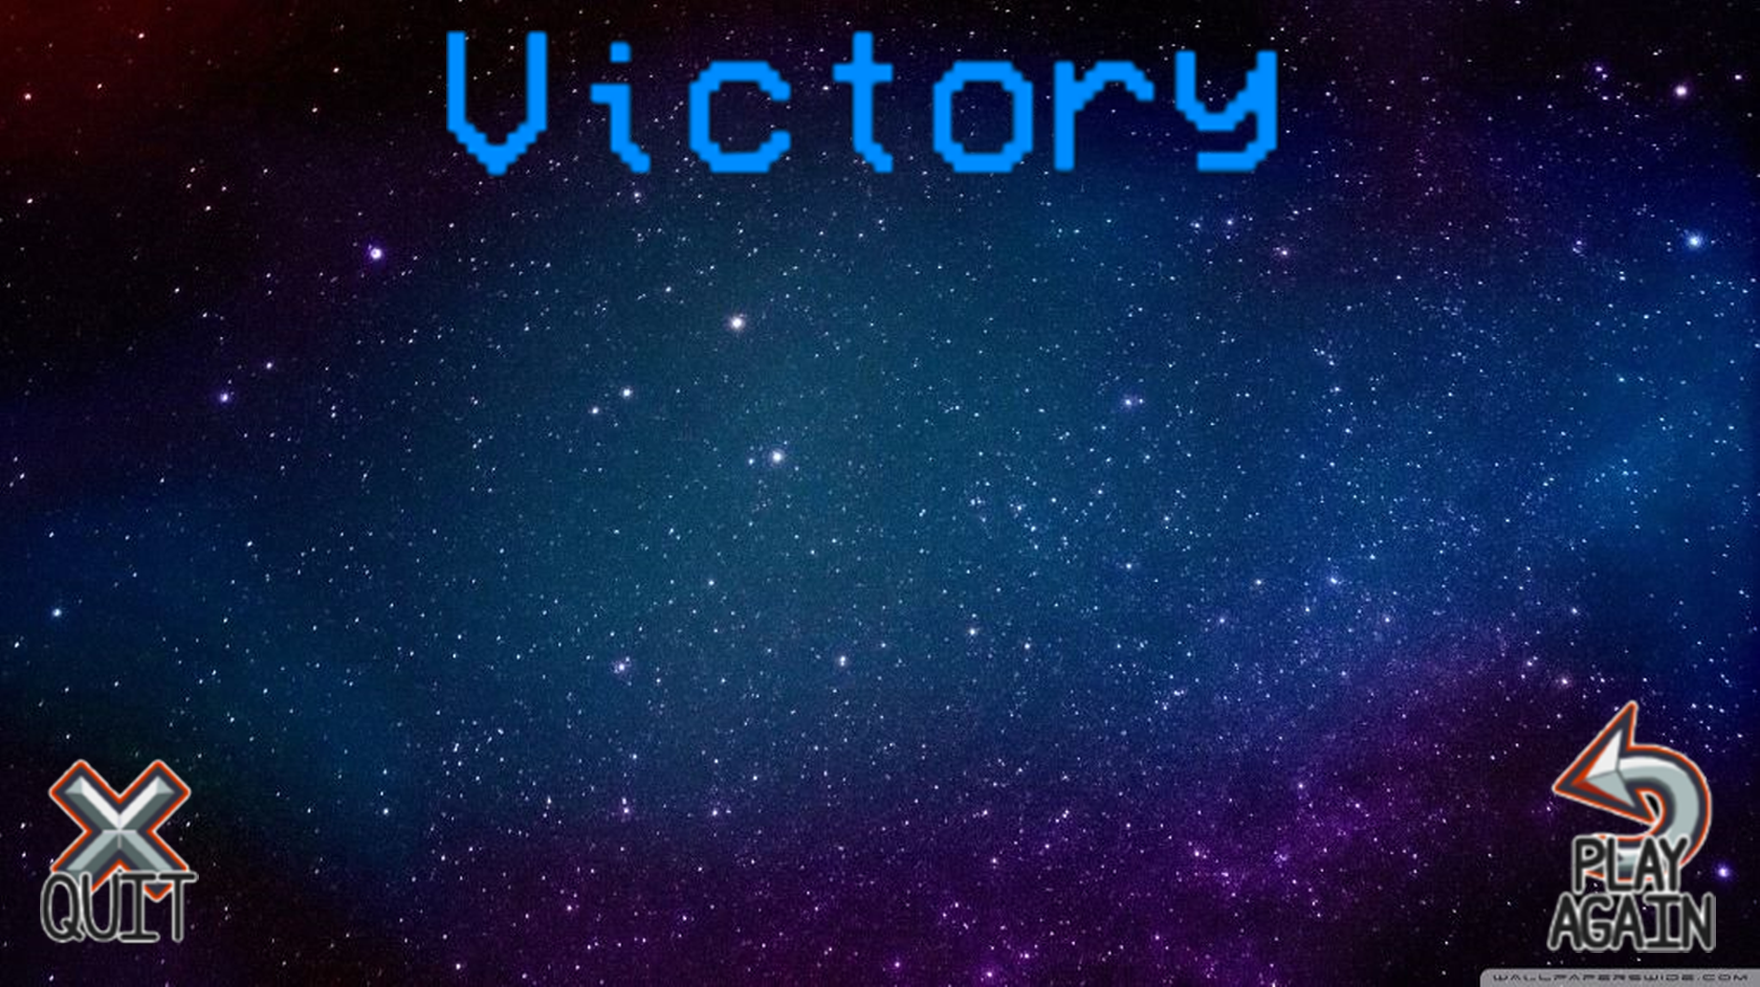
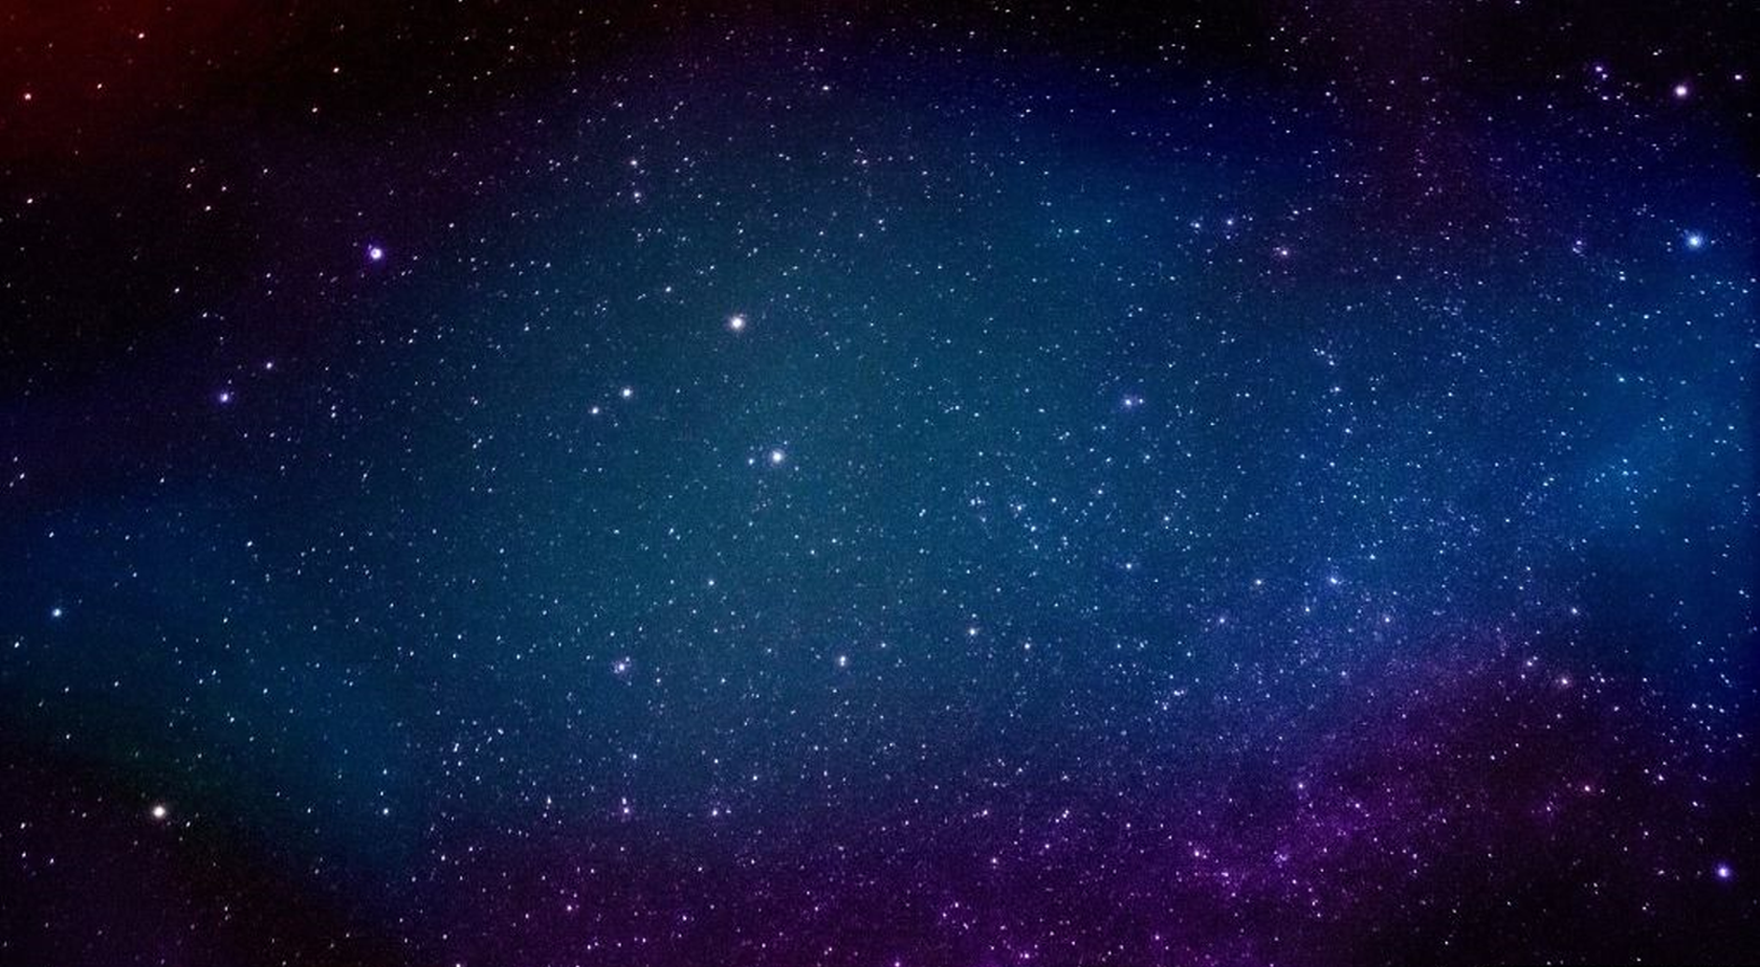
victory_state 추가

diff --git a/2DProject/Johnburr/victory_state.PY b/2DProject/Johnburr/victory_state.PY
@@ -1,0 +1,86 @@
+import gfw
+from pico2d import *
+import main_state
+
+RES_DIR = './res'
+def enter():
+    global image, spaceship_image,engine_image, time, cw , ch,  scroll, speed,victory_image,quit_image,again_image
+    image = load_image(RES_DIR + '/victory_state.png')
+    spaceship_image = load_image(RES_DIR + '/spaceship/7.png')
+    engine_image = load_image(RES_DIR + '/engine.png')
+    victory_image = load_image(RES_DIR + '/victory.png')
+    quit_image = load_image(RES_DIR + '/quit_button.png')
+    again_image = load_image(RES_DIR + '/again_button.png')
+    time = 0
+    cw , ch = get_canvas_width(), get_canvas_height()
+    scroll = 0
+    speed = 500
+
+
+def update():
+    global fidx, time, scroll
+    time += gfw.delta_time
+    fidx = int(time * 30 + 0.5) % 4
+    scroll += speed * gfw.delta_time
+
+
+
+def draw():
+    sx = fidx * 53
+    #image.draw(get_canvas_width() // 2,get_canvas_height() // 2,get_canvas_width() ,get_canvas_height())
+
+
+    left, bottom = 0, 0
+    page = image.h * cw // image.w
+    curr = int(-scroll) % page
+    if curr > 0:
+        sh = int(1 + image.w * curr / cw)
+        sb = image.h - sh
+        src = 0, sb, image.w, sh
+        dh = int(sh * cw / image.w)
+        dst = 0, curr - dh, cw, dh
+        image.clip_draw_to_origin(*src, *dst)
+    dst_high = round(image.h * cw / image.w)
+    while curr + dst_high < ch:
+        dst = 0, curr, cw, dst_high
+        image.draw_to_origin(*dst)
+        curr += dst_high
+    if curr < ch:
+        dh = ch - curr
+        sh = int(1 + image.w * dh / cw)
+        src = 0, 0, image.w, sh
+        dh = int(sh * cw / image.w)
+        dst = 0, curr, cw, dh
+        image.clip_draw_to_origin(*src, *dst)
+
+    victory_image.draw(get_canvas_width() // 2,750)
+    quit_image.draw(100,100)
+    again_image.draw(1600, 100)
+    spaceship_image.draw(get_canvas_width() // 2, get_canvas_height() // 2)
+    engine_image.clip_draw(0 + sx, 0, 45, 215, get_canvas_width() // 2, get_canvas_height() // 2 - 210)
+
+
+def handle_event(e):
+    if e.type == SDL_QUIT:
+        gfw.quit()
+    elif (e.type, e.key) == (SDL_KEYDOWN, SDLK_ESCAPE):
+        gfw.quit()
+    elif (e.type, e.key) == (SDL_KEYDOWN, SDLK_SPACE):
+        gfw.push(main_state)
+
+
+def exit():
+    global image
+    del image
+
+
+def pause():
+    pass
+
+
+def resume():
+    pass
+
+
+if __name__ == '__main__':
+    gfw.run_main()
